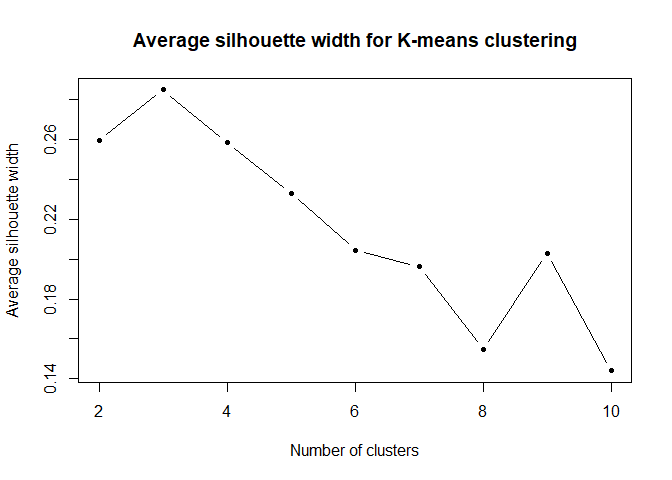
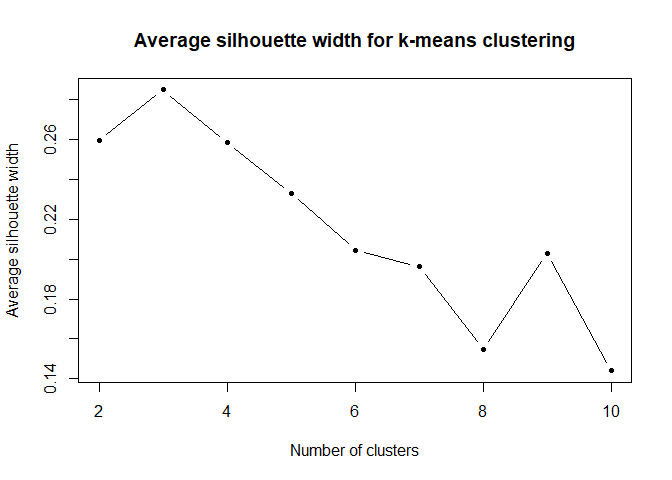
Figure changed

Changed region(s): [[0.1875, 0.0625, 0.875, 0.125]]

diff --git a/03-cluster-validation/README.md b/03-cluster-validation/README.md
@@ -1,12 +1,12 @@
 Cluster validation for wine profiling
 ================
-Georgios Papadopoulos
+Georgios Papadopoulos \|
 2025-10-17
 
-*Evaluating K-Means, Hierarchical, Fuzzy, and Model-Based Clustering
-with Internal Validity Measures in R*
+*Evaluating k-means, hierarchical, fuzzy, and model based clustering
+with internal validity measures*
 
-# Preparation
+# 1. Calinski-Harabasz and Hartigan indices for k-means
 
 ``` r
 library(doBy)
@@ -14,8 +14,6 @@ data(wine)
 wine_numbers <- wine[, sapply(wine, is.numeric)]
 wine_scaled <- scale(wine_numbers)
 ```
-
-# 1. Calinski-Harabasz and Hartigan indices for K-means
 
 To calculate Calinksi Harabasz index I used `fpc` package
 <https://search.r-project.org/CRAN/refmans/fpc/html/calinhara.html>
@@ -33,7 +31,7 @@ interested in the biggest value which we see both visually and on the
 data for k=3. For the Hartigan index we are interested in the largest
 change of Hartigan, namely $ΔH_k=H_k−H_{k−1}$ which happens for k=3.
 Basically the biggest increase is when we approach when from cluster 2
-we add **cluster 3**. From our previous exercise, we know that we had
+we add **cluster 3**. From our previous report, we know that we had
 three types of wines.
 
 ``` r
@@ -105,13 +103,15 @@ with the average distance to all points in its own cluster c.
 
 $$
 s_i = \frac{d_{i,c} - d_{i,ck}}{max(d_{i,ck},d_{i,c})}
-$$ Then we take the mean of column 3 to obtain the average silhouette
-width which summarizes the overall clustering quality for each cluster.
-I tested this before with `head(sil)`.
+$$
+
+Then we take the mean of column 3 to obtain the average silhouette width
+which summarizes the overall clustering quality for each cluster. I
+tested this before with `head(sil)`.
 
 Although the values are relatively low the highest average is for k = 3
 which means that three clusters provide the best clustering structure.
-The values are low because we remember from the last exercise that there
+The values are low because we remember from the last report that there
 was a significant overlap throughout two of three clusters
 `plot(wine, col = wine$Cult, pch = 16)`
 
@@ -148,7 +148,7 @@ print(results_sil)
 plot(k, silhouette_values, type = "b", pch = 20,
      xlab = "Number of clusters",
      ylab = "Average silhouette width",
-     main = "Average silhouette width for K-means clustering")
+     main = "Average silhouette width for k-means clustering")
 ```
 
 ![](figures/unnamed-chunk-3-1.png)<!-- -->
@@ -159,7 +159,7 @@ Now we will use again the average silhouette width as a validity
 measure, but change the clustering method. Instead of kmeans we use
 hierarchical clustering.
 
-Again the highest average silhouette value is at K = 3, meaning that the
+Again the highest average silhouette value is at k = 3, meaning that the
 clustering quality is then the best. The results are consistent with
 k-means clustering. Between the two algorithms k-means achieved slightly
 higher silhouette values which means slightly better cluster separation.
@@ -267,12 +267,12 @@ opt_k
 
 # 5. Gap statistic for fuzzy clustering
 
-The difference with the previous exercise is that now we implement fuzzy
+The difference with the previous report is that now we implement fuzzy
 cmeans clustering. m is a parameter than controls how fuzzy the
 clustering is. For m=1 clustering is exactly like k-means, but as m
 increases the points can belong to multiple clusters.
 
-For our exercise the Gap statistic increases up to K = 3, after which it
+For our report the Gap statistic increases up to k = 3, after which it
 stabilizes. This confirms the previous findings from k-means and
 hierarchical clustering.
 
